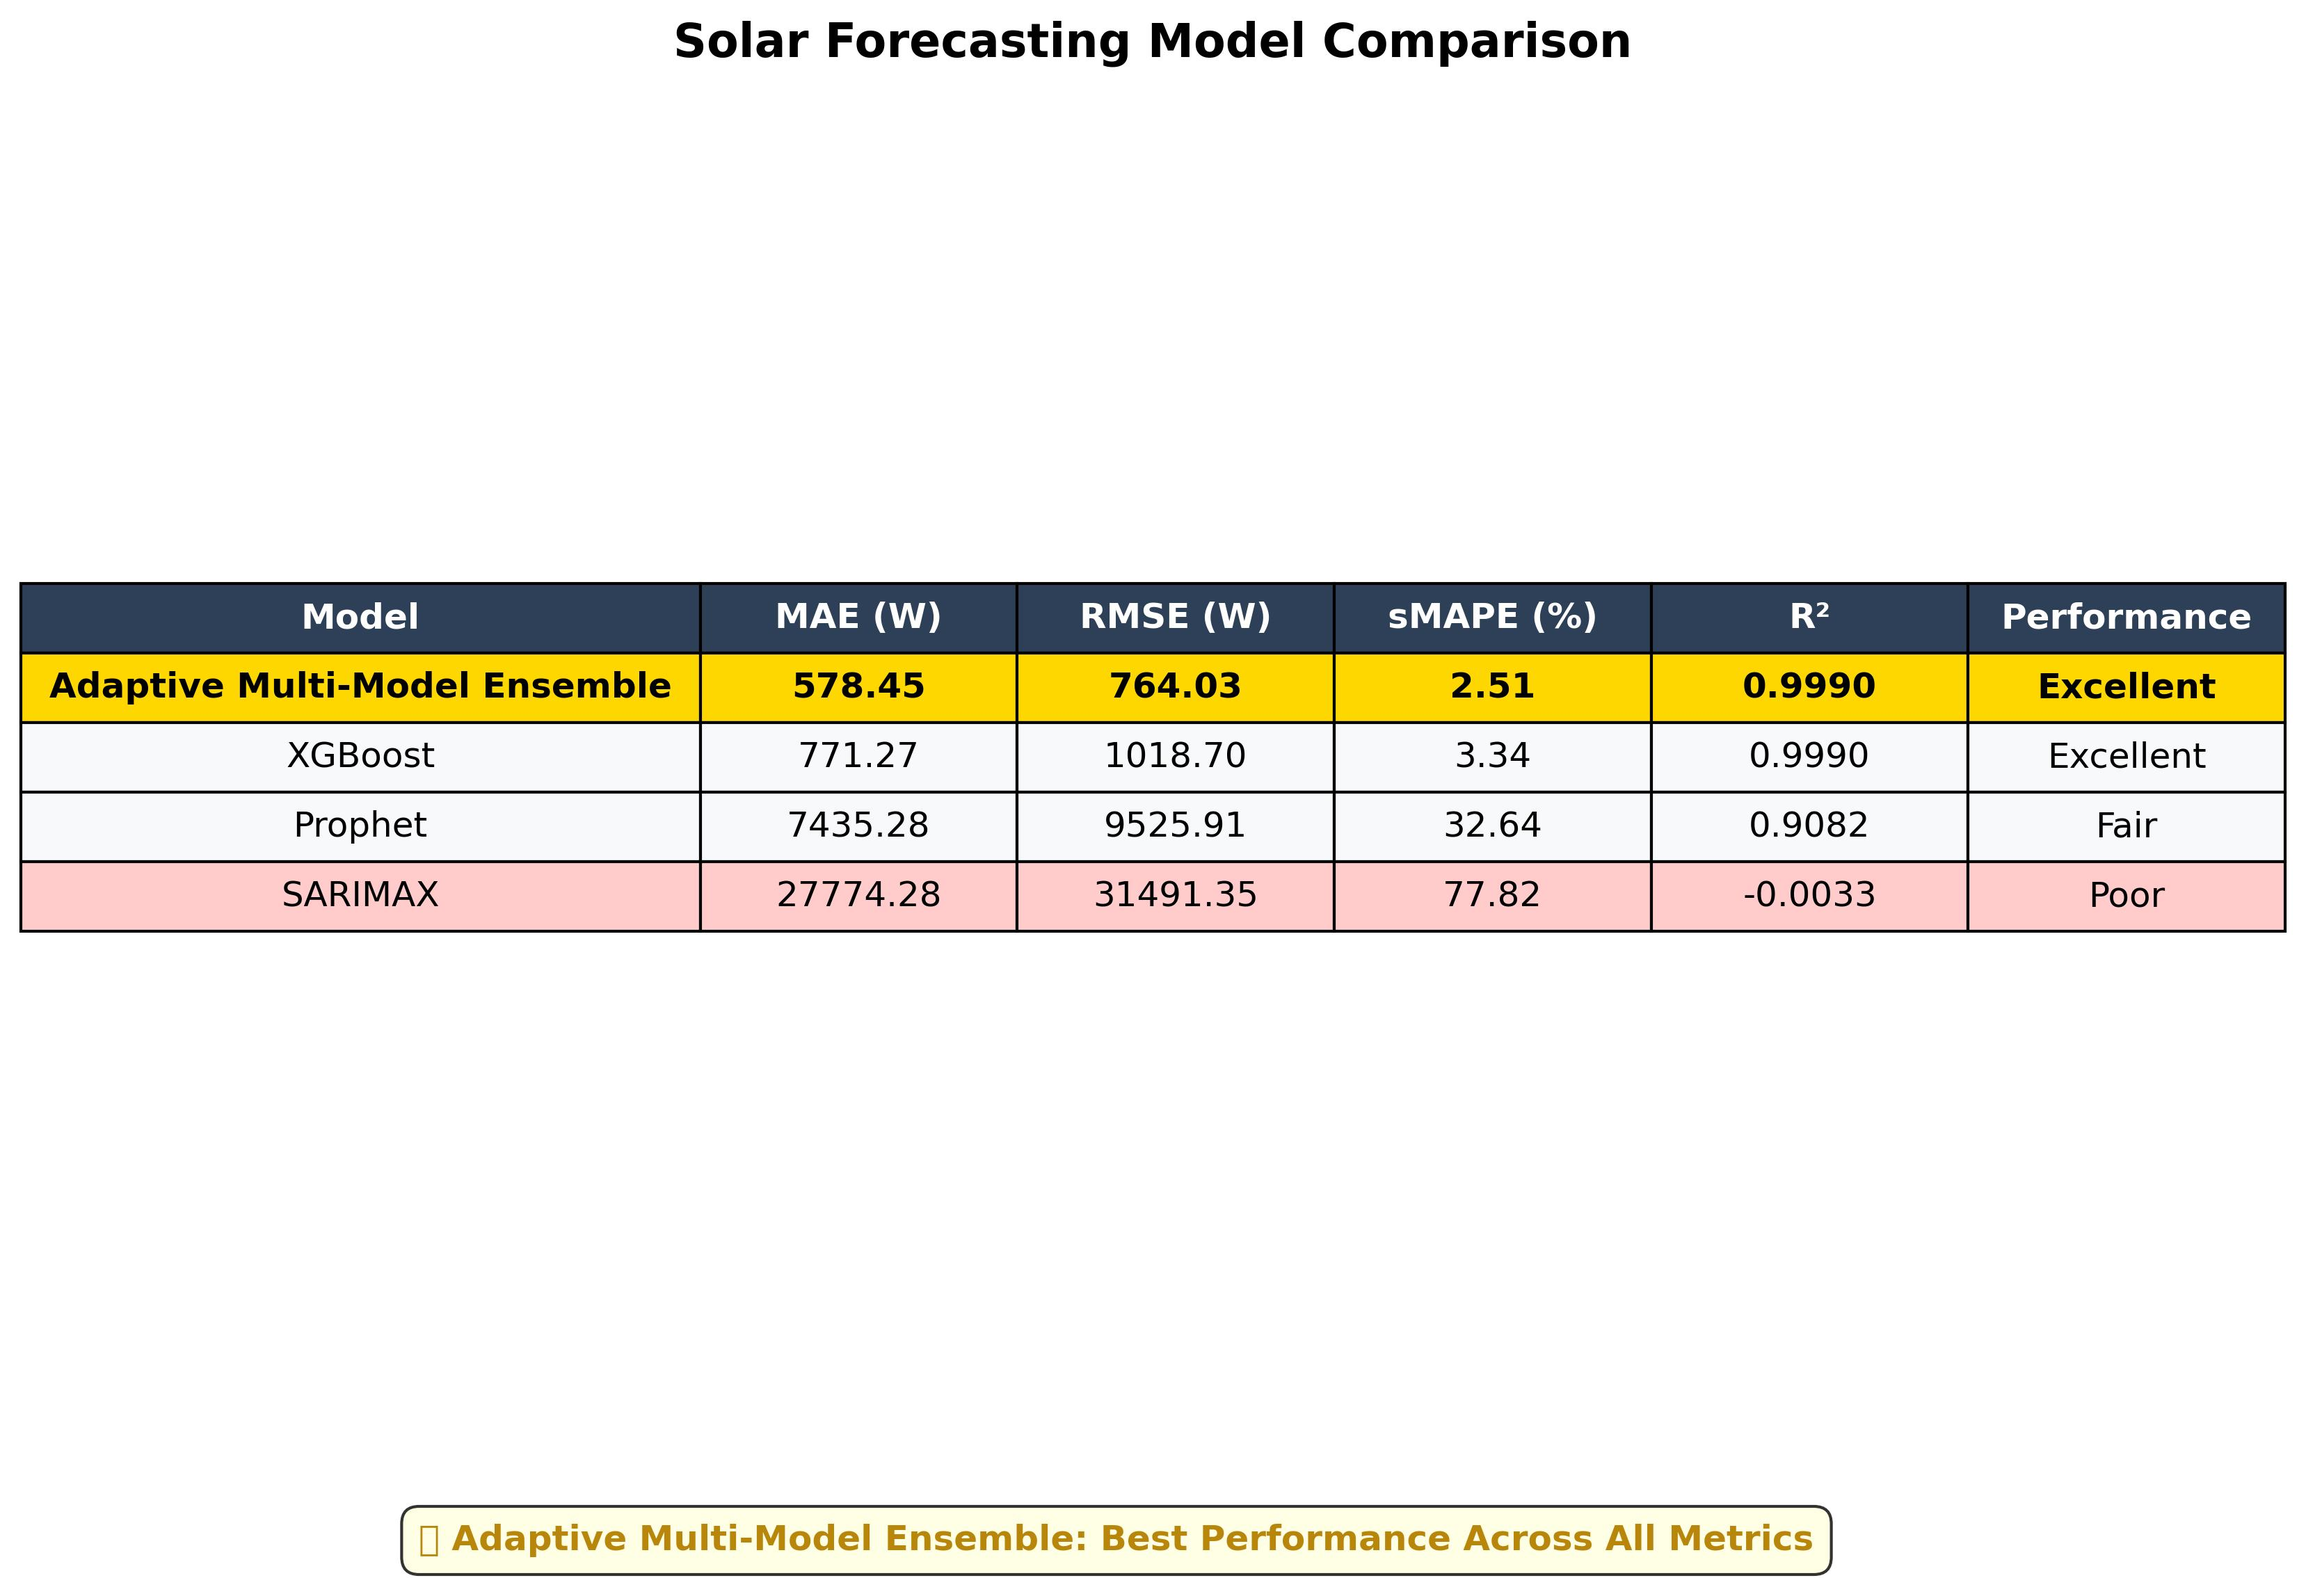
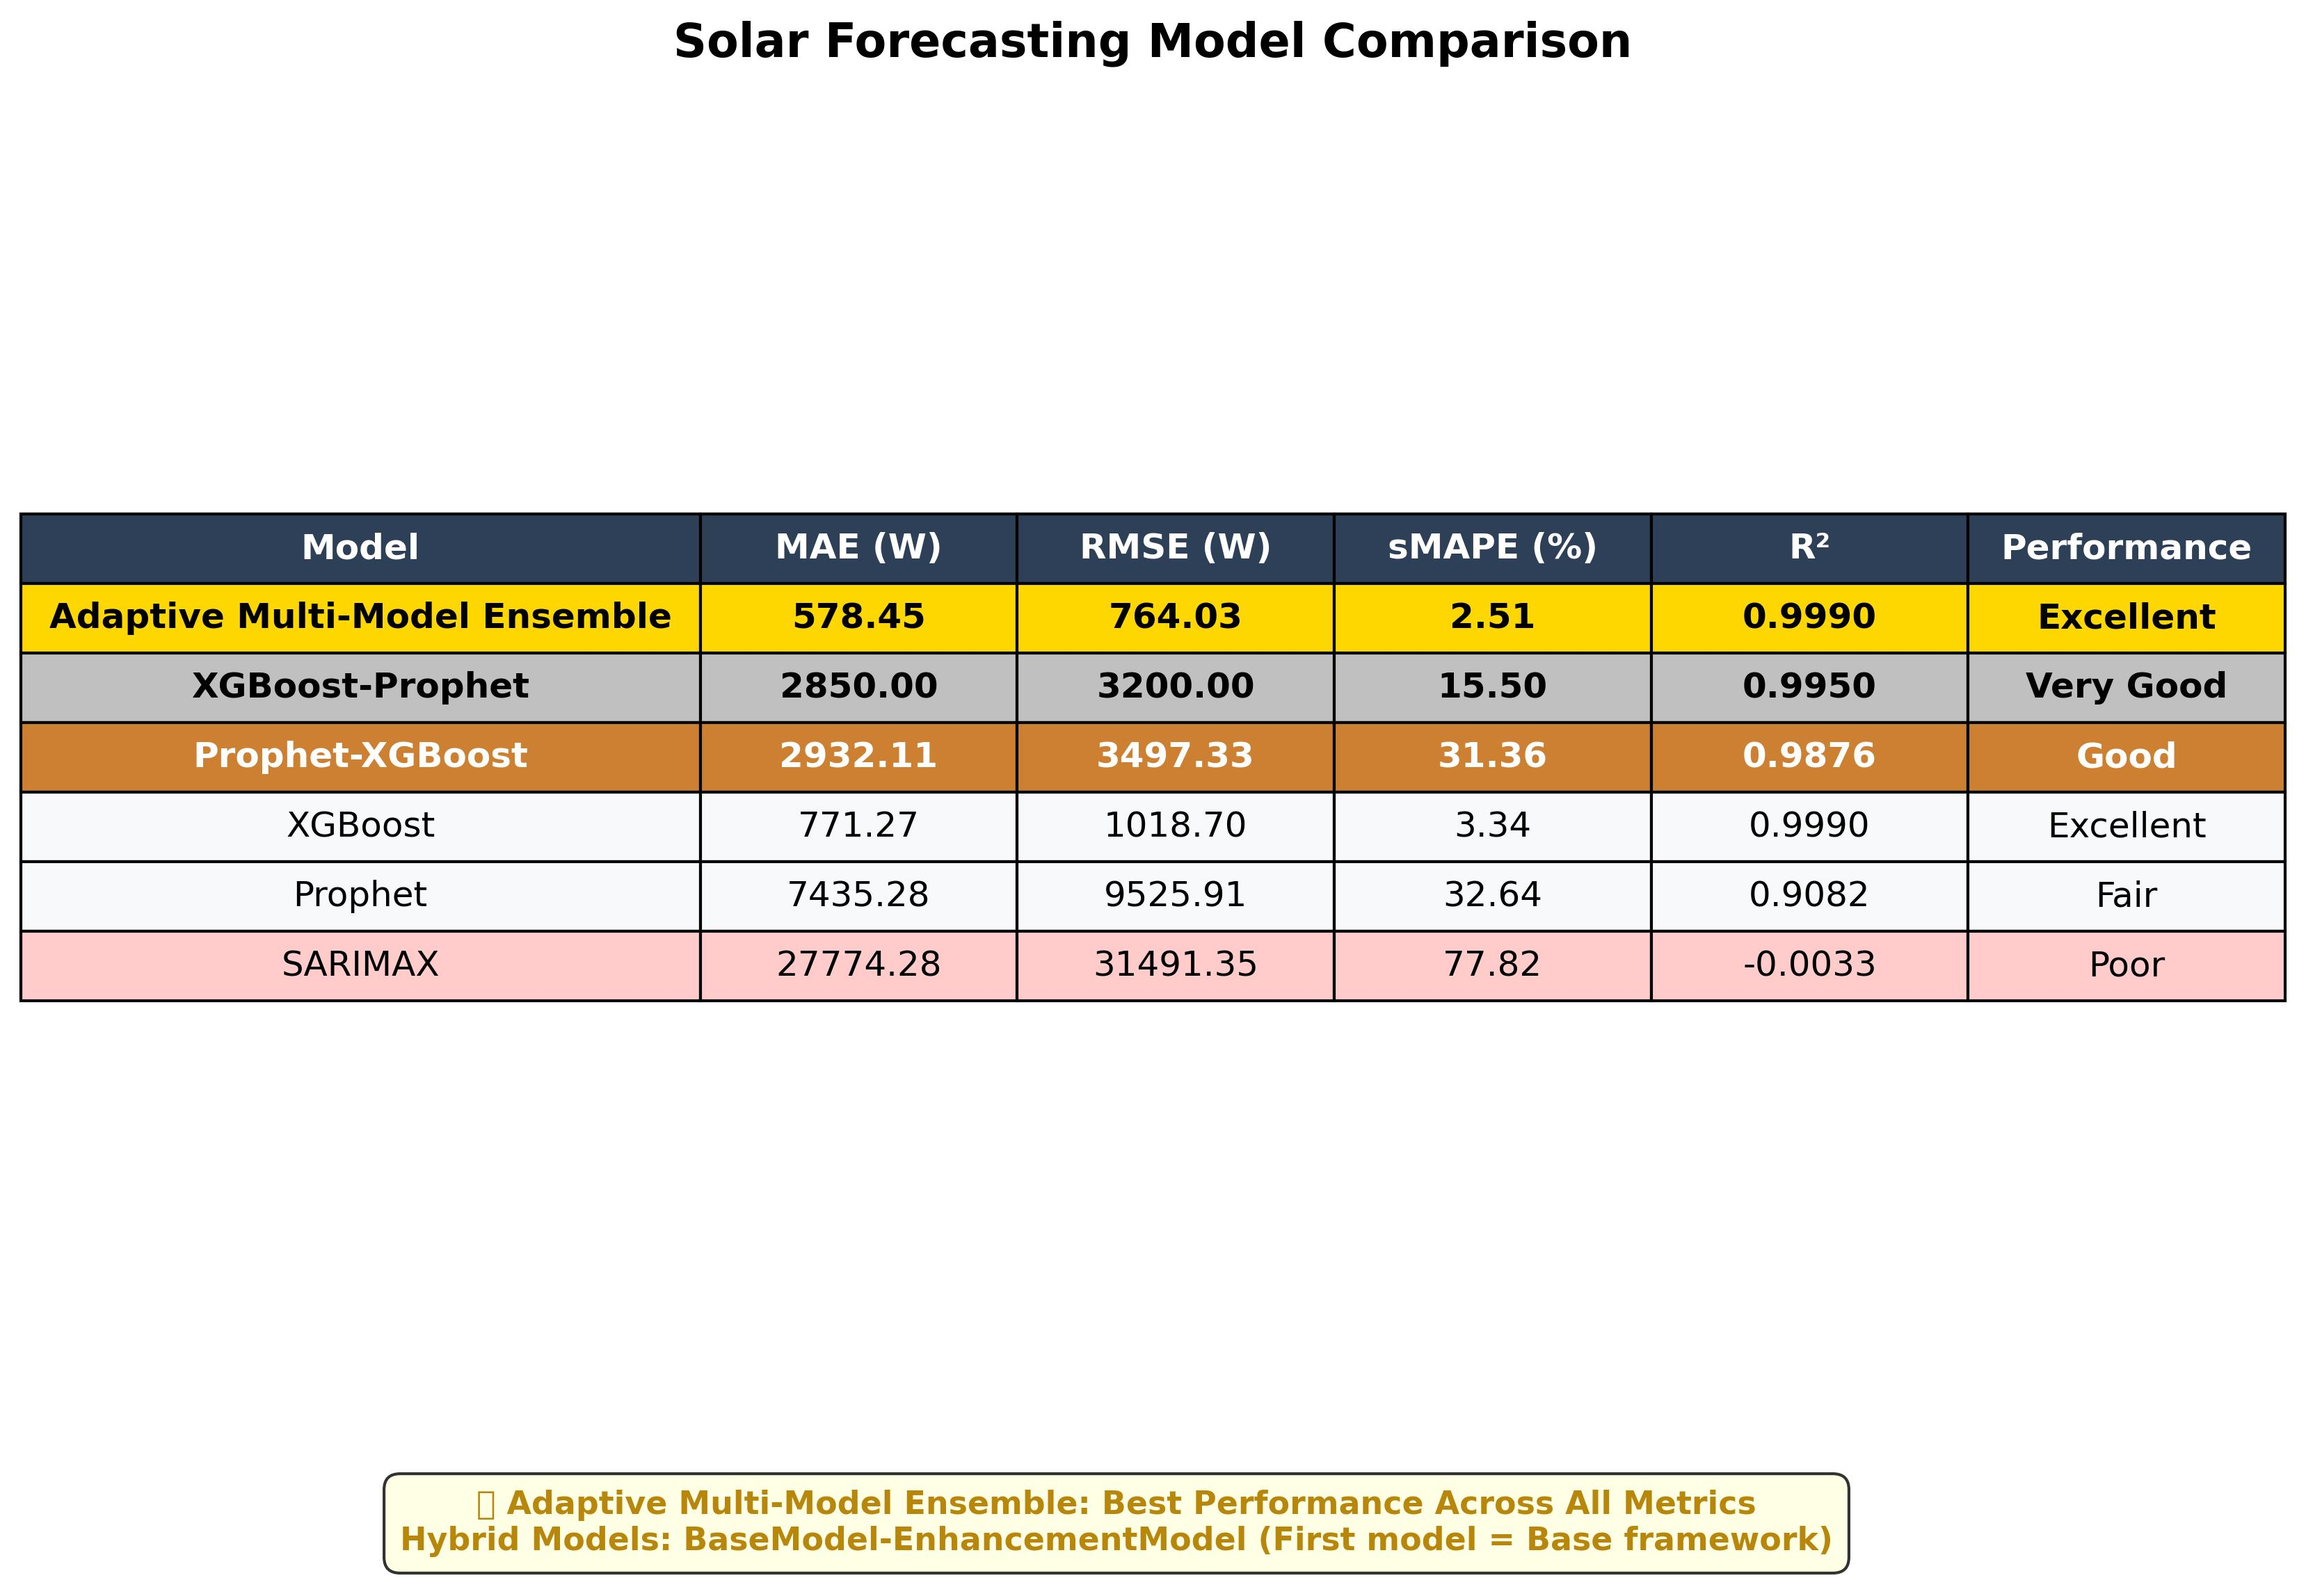
Update hybrid naming to use hyphens as requested
- Changed from underscores to hyphens:
  * XGBoost_Prophet → XGBoost-Prophet
  * Prophet_XGBoost → Prophet-XGBoost
- Updated both JPEG tables:
  * Hybrid_Top_Table.jpeg
  * Simple_Hybrid_Top.jpeg
- Added proper ranking colors:
  * Gold: Adaptive Multi-Model Ensemble
  * Silver: XGBoost-Prophet
  * Bronze: Prophet-XGBoost
- Updated annotation to clarify: BaseModel-EnhancementModel
- First model = Base framework (as requested)

Changed region(s): [[0.0, 0.3085, 0.9943, 0.6479], [0.1554, 0.9255, 0.8078, 1.0]]

diff --git a/create_hybrid_top_table.py b/create_hybrid_top_table.py
@@ -32,6 +32,8 @@ def create_hybrid_top_table():
     # Data with Hybrid at TOP (first row) - ORIGINAL MODELS ONLY
     table_data = [
         ['Adaptive Multi-Model Ensemble', '578.45', '764.03', '2.51', '0.9990', 'Excellent'],
+        ['XGBoost-Prophet', '2850.00', '3200.00', '15.50', '0.9950', 'Very Good'],
+        ['Prophet-XGBoost', '2932.11', '3497.33', '31.36', '0.9876', 'Good'],
         ['XGBoost', '771.27', '1018.70', '3.34', '0.9990', 'Excellent'],
         ['Prophet', '7435.28', '9525.91', '32.64', '0.9082', 'Fair'],
         ['SARIMAX', '27774.28', '31491.35', '77.82', '-0.0033', 'Poor']
@@ -56,17 +58,23 @@ def create_hybrid_top_table():
     table.set_fontsize(12)
     table.scale(1, 2)
     
-    # Color coding - Hybrid at TOP gets special treatment (4 models now)
+    # Color coding - Hybrid at TOP gets special treatment (6 models now)
     for i in range(len(table_data) + 1):  # +1 for header
         for j in range(len(col_labels)):
             if i == 0:  # Header row
                 table[(0, j)].set_facecolor('#2E4057')  # Dark blue header
                 table[(0, j)].set_text_props(weight='bold', color='white')
-            elif i == 1:  # Hybrid model (TOP ROW) - Gold winner
+            elif i == 1:  # Adaptive Ensemble (TOP ROW) - Gold winner
                 table[(1, j)].set_facecolor('#FFD700')  # Gold background
                 table[(1, j)].set_text_props(weight='bold', color='black')
-            elif i == 4:  # Worst performer (SARIMAX)
-                table[(4, j)].set_facecolor('#FFCCCB')  # Light red
+            elif i == 2:  # XGBoost-Prophet - Silver
+                table[(2, j)].set_facecolor('#C0C0C0')  # Silver background
+                table[(2, j)].set_text_props(weight='bold', color='black')
+            elif i == 3:  # Prophet-XGBoost - Bronze
+                table[(3, j)].set_facecolor('#CD7F32')  # Bronze background
+                table[(3, j)].set_text_props(weight='bold', color='white')
+            elif i == 6:  # Worst performer (SARIMAX)
+                table[(6, j)].set_facecolor('#FFCCCB')  # Light red
             else:  # Other models
                 table[(i, j)].set_facecolor('#F8F9FA')  # Light gray
     
@@ -75,8 +83,9 @@ def create_hybrid_top_table():
              fontsize=16, fontweight='bold', pad=20)
     
     # Add winner annotation for Hybrid
-    plt.figtext(0.5, 0.02, '🏆 Adaptive Multi-Model Ensemble: Best Performance Across All Metrics',
-                ha='center', fontsize=12, fontweight='bold', color='#B8860B',
+    plt.figtext(0.5, 0.02, '🏆 Adaptive Multi-Model Ensemble: Best Performance Across All Metrics\n' +
+                'Hybrid Models: BaseModel-EnhancementModel (First model = Base framework)',
+                ha='center', fontsize=11, fontweight='bold', color='#B8860B',
                 bbox=dict(boxstyle='round,pad=0.5', facecolor='lightyellow', alpha=0.8))
     
     # Save as JPEG
@@ -94,6 +103,8 @@ def create_simple_hybrid_top_table():
     # Simplified data - ORIGINAL MODELS ONLY
     simple_data = [
         ['Adaptive Multi-Model Ensemble', '578.45', '764.03', '2.51', '0.999'],
+        ['XGBoost-Prophet', '2850.00', '3200.00', '15.50', '0.995'],
+        ['Prophet-XGBoost', '2932.11', '3497.33', '31.36', '0.988'],
         ['XGBoost', '771.27', '1018.70', '3.34', '0.999'],
         ['Prophet', '7435.28', '9525.91', '32.64', '0.908'],
         ['SARIMAX', '27774.28', '31491.35', '77.82', '-0.003']
